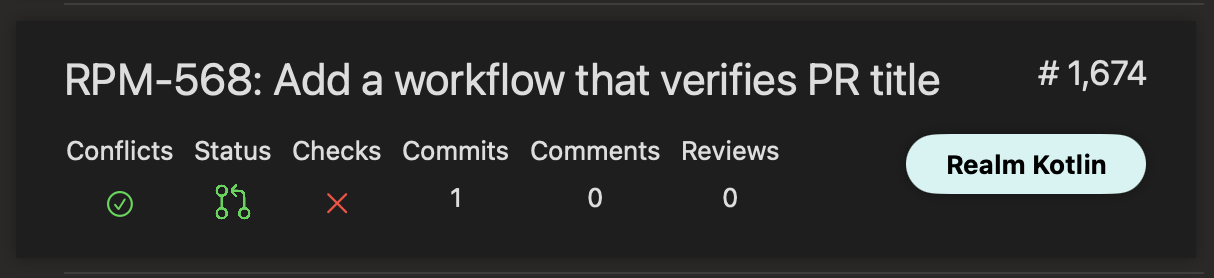
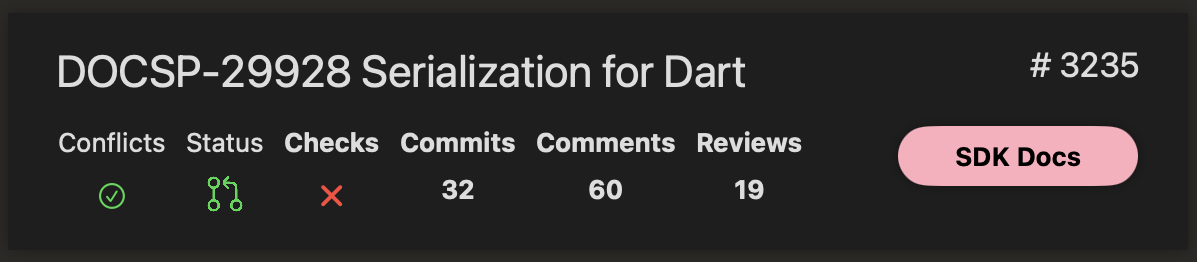
Update screenshots for bold updated PR details

diff --git a/content/en/docs/repositories/view-repository.md b/content/en/docs/repositories/view-repository.md
@@ -13,7 +13,7 @@ When you select a repository in the sidebar, this opens the Repository Dashboard
 - View the details of a specific PR in PR Focus
 - Manage details about the repository, or stop watching it
 
-Or if you want to view a rollup of all the PRs you're watching in one view, you can select the **All Repositories** view, which displays all the pull requests from the individual repository dashboards in an aggregate view.
+Or if you want to view a rollup of all the PRs you're watching in one view, you can select the **All Pull Requests** view. This displays all the pull requests from the individual repository dashboards, as well as any solo PRs you're watching, in an aggregate view.
 
 ## The Repository Dashboard
 
@@ -44,15 +44,19 @@ A summary view gives you information about each PR in the repository, including:
 
 You can click into a PR summary to see the full details of the pull request.
 
-The background color of the PR summary changes when the PR has new updates since you last viewed the details. PR Focus uses your macOS settings for Light or Dark mode. 
+The background color of the PR summary changes when the PR has new updates since you last viewed the details. Additionally, when there are updates since you've last viewed the details, PR Focus bolds the relevant column that has updates - **Checks**, **Commits**, **Comments**, or **Reviews**. PR Focus uses your macOS settings for Light or Dark mode.
 
 In Light mode, a PR summary with a bright white background has updates you haven't seen. One that is gray does not have any new updates since you last viewed it.
 
 ![Screenshot of a PR Summary with new updates in Light mode - the background is bright white](/images/pr-summary.png)
 
-In Dark mode, a PR summary with a gray background has updates you haven't seen. One that is dark black does not have any new updaets since you last viewed it.
+In Dark mode, a PR summary with a dark black background has updates you haven't seen. One that is grey does not have any new updates since you last viewed it.
 
-![Screenshot of a PR Summary with new updates in Dark mode - the background is gray instead of dark black](/images/pr-summary-dark-mode.png)
+![Screenshot of a PR Summary with new updates in Dark mode - the background is dark black](/images/pr-summary-dark-mode.png)
+
+If you're viewing a repository where you are showing all three columns - "My PRs", "Assigned PRs", and "Reviewing PRs", you see a condensed PR Summary designed to prevent the column names from overflowing.
+
+![Screenshot of a condensed PR Summary - it has no "Conflicts" column name, and the columns are closer together to avoid overflowing titles](/images/pr-summary-condensed.png)
 
 #### PR Summary Context Menu
 
